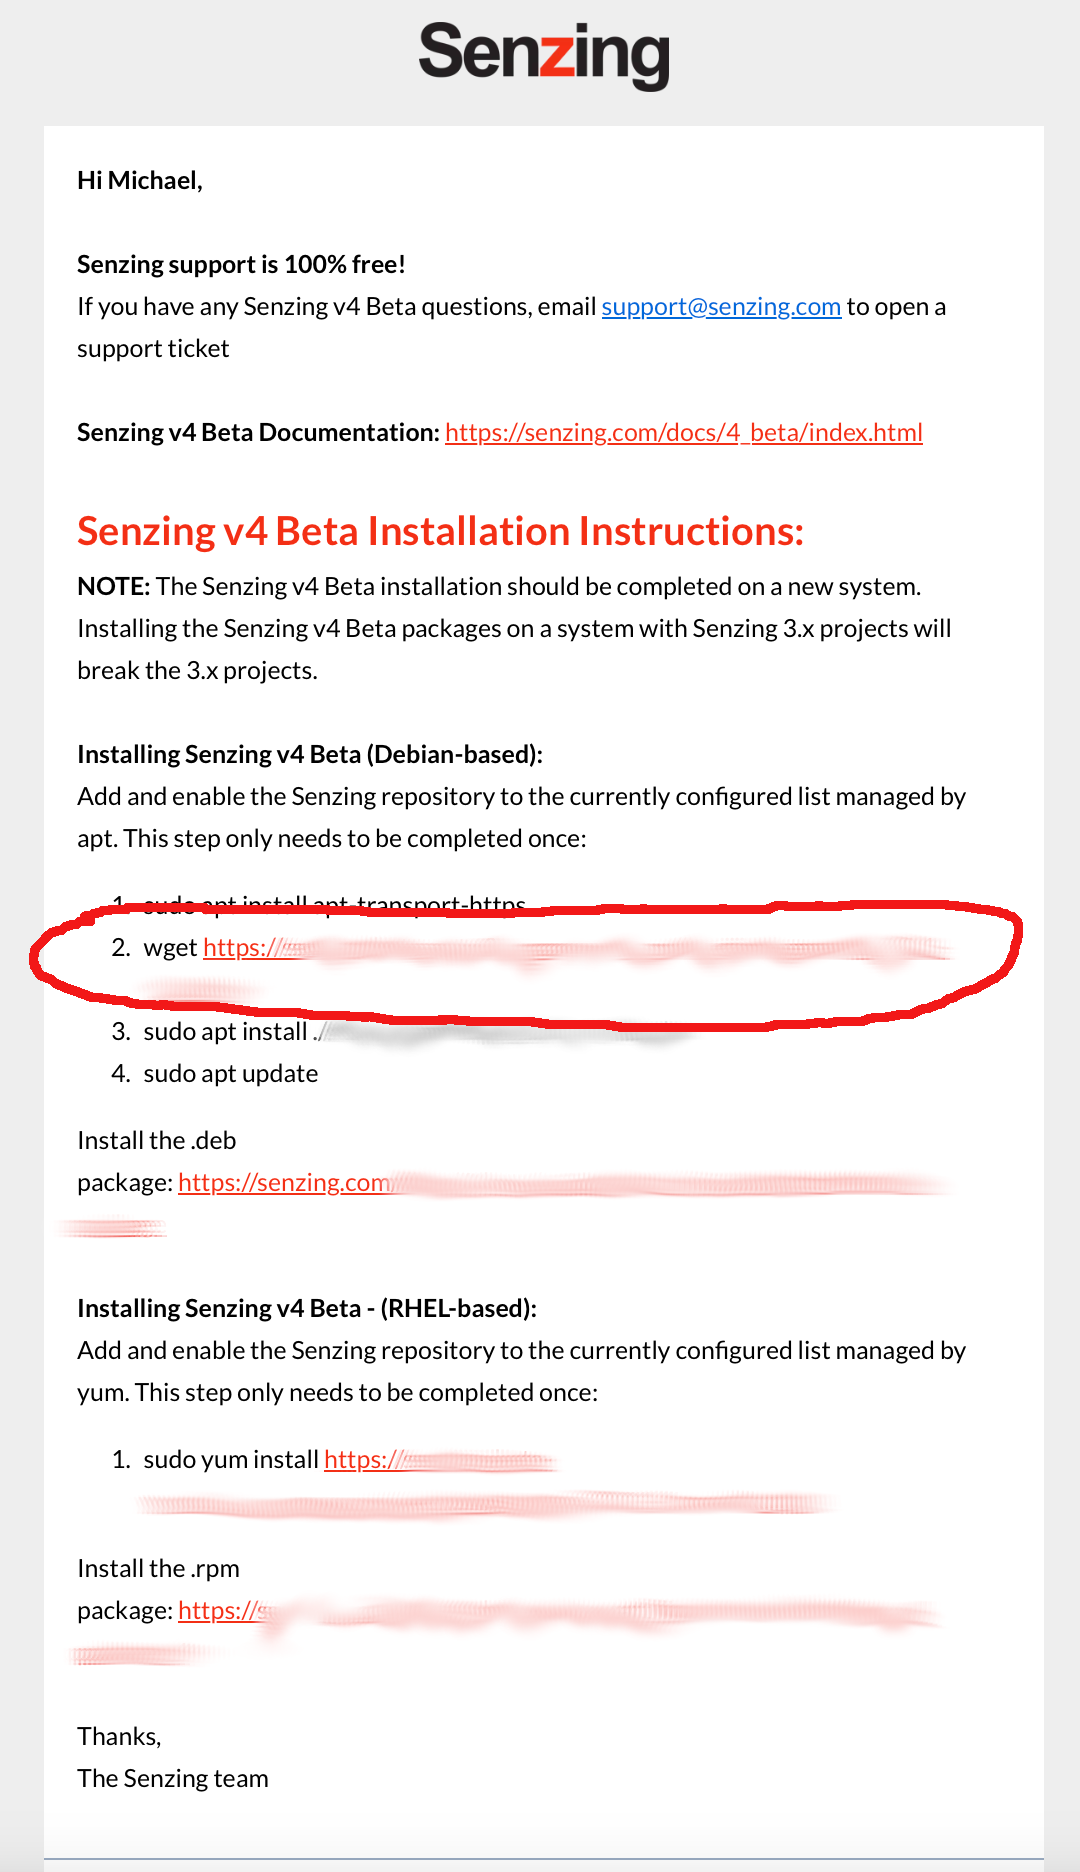
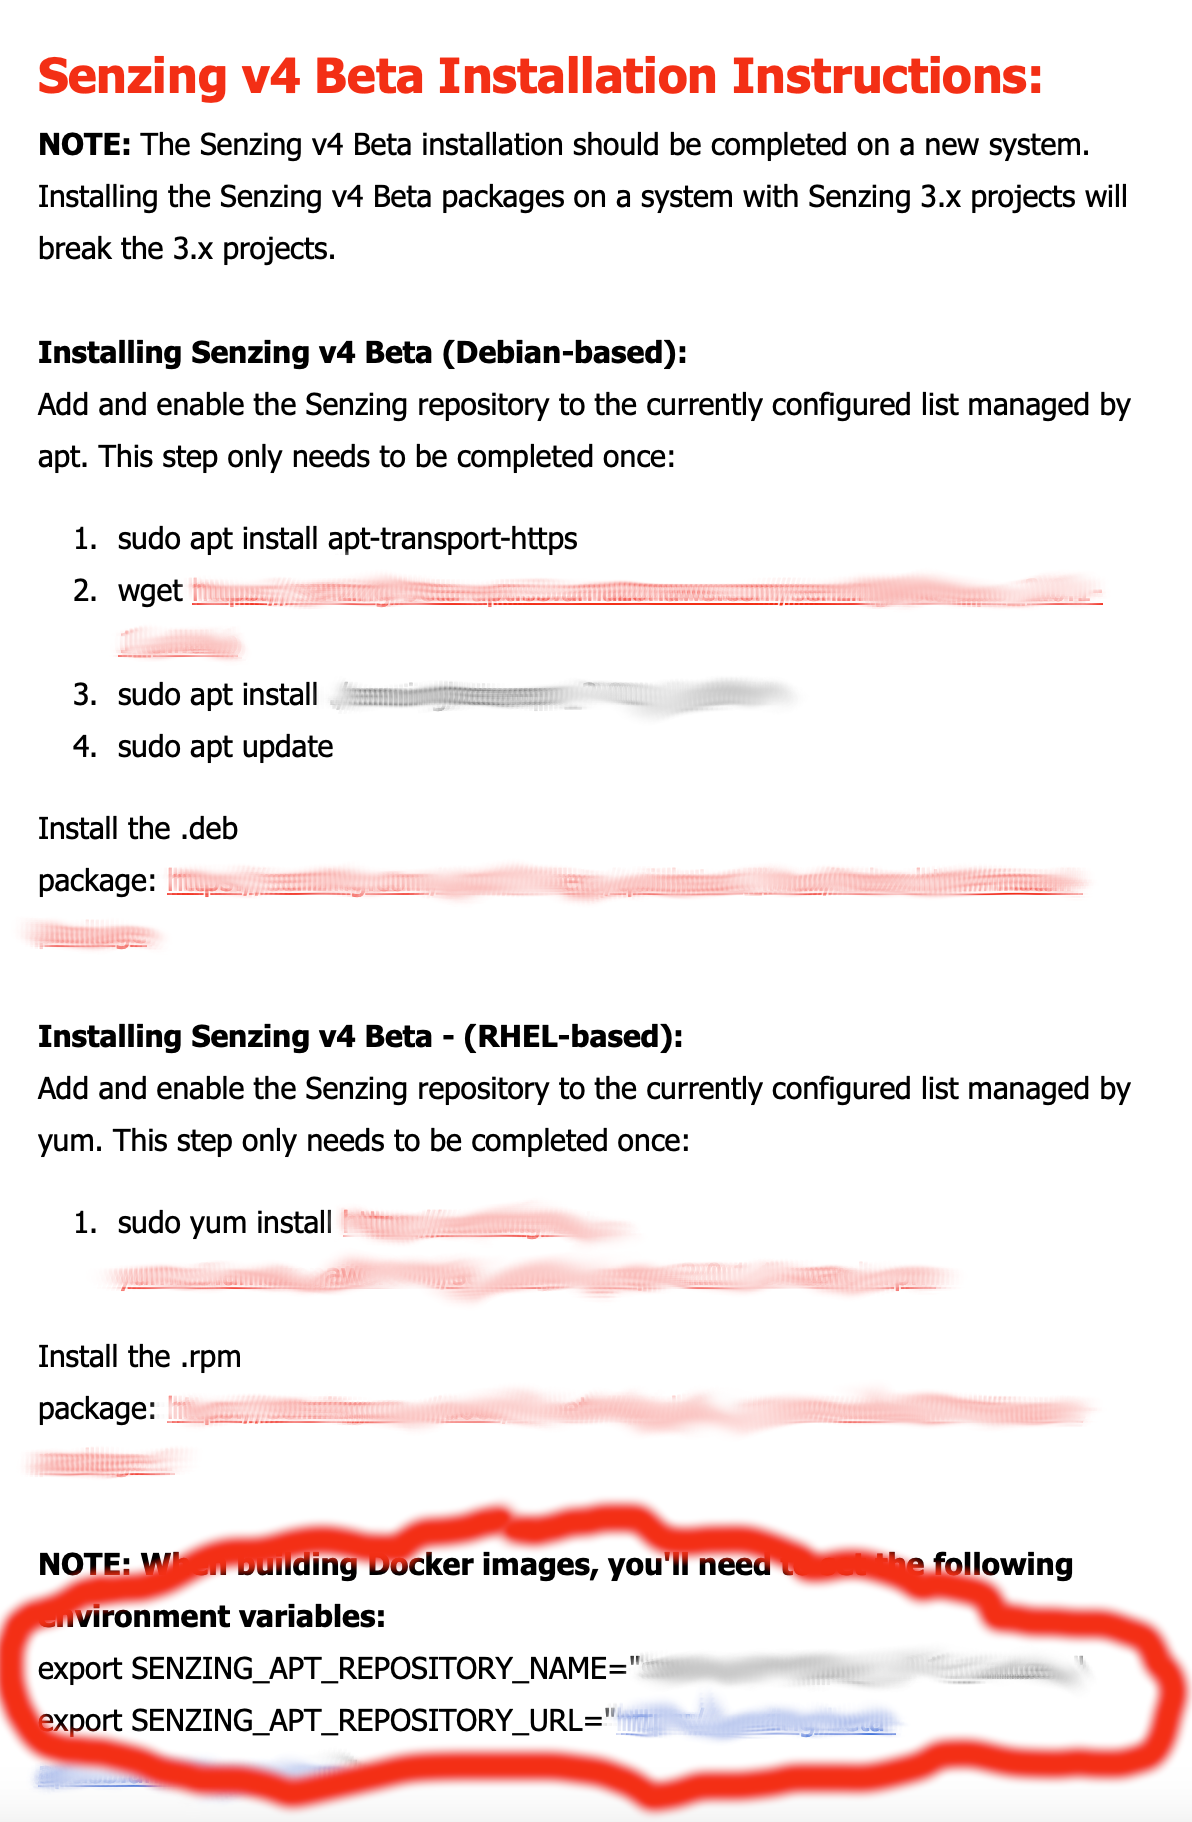
#382 Update instructions (#387)

Changed region(s): [[0.0, 0.0, 1.0, 1.0]]

diff --git a/docs/how-to-build-docker-image.md b/docs/how-to-build-docker-image.md
@@ -3,25 +3,14 @@
 ## Senzing V4 Beta instructions
 
 1. Email [sales@senzing.com] to request participation in Senzing V4 Beta.
-1. Once you are signed up, you’ll get an email with a [URL for a Debian-based installation].
-   You’ll use values this URL to create environment variables.
-1. The first part of the URL, up to the final forward-slash,
-   is the SENZING_APT_REPOSITORY_URL value.
-   It starts with `https://senzing-` and ends with `.com`.
-   It needs to be the value of the `SENZING_APT_REPOSITORY_URL` environment variable.
+1. Once you are signed up, you’ll get an email with [docker build information].
+1. Use the information to set environment variables.
 
-   Example:
+   Examples:
 
     ```console
     export SENZING_APT_REPOSITORY_URL="https://senzing-xxxxxxxx.com"
     ```
-
-1. The second part of the URL, everything after the final forward-slash,
-   is the SENZING_APT_REPOSITORY_NAME value.
-   It starts with `senzing` and ends with `.deb`.
-   It needs to be the value of the `SENZING_APT_REPOSITORY_NAME` environment variable.
-
-   Example:
 
     ```console
     export SENZING_APT_REPOSITORY_NAME="senzingxxxx-xxxxxxxx.deb"
@@ -40,4 +29,4 @@
     ```
 
 [sales@senzing.com]: mailto:sales@senzing.com
-[URL for a Debian-based installation]: ./response-email.png
+[docker build information]: ./response-email.png
